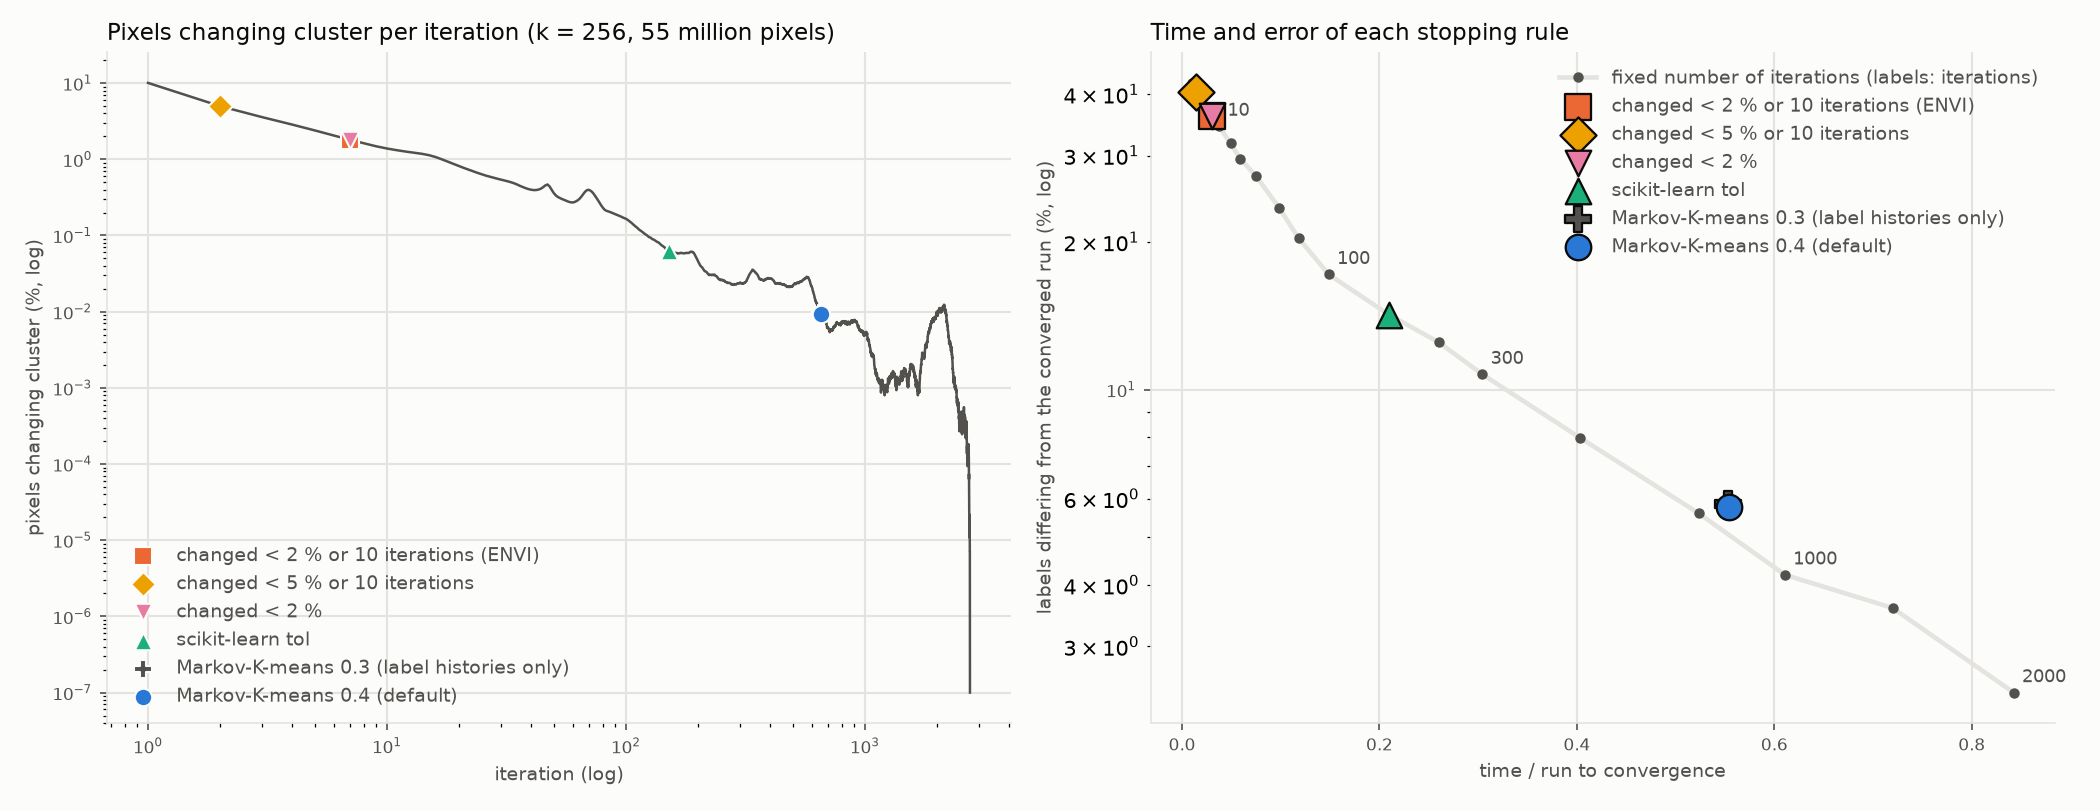
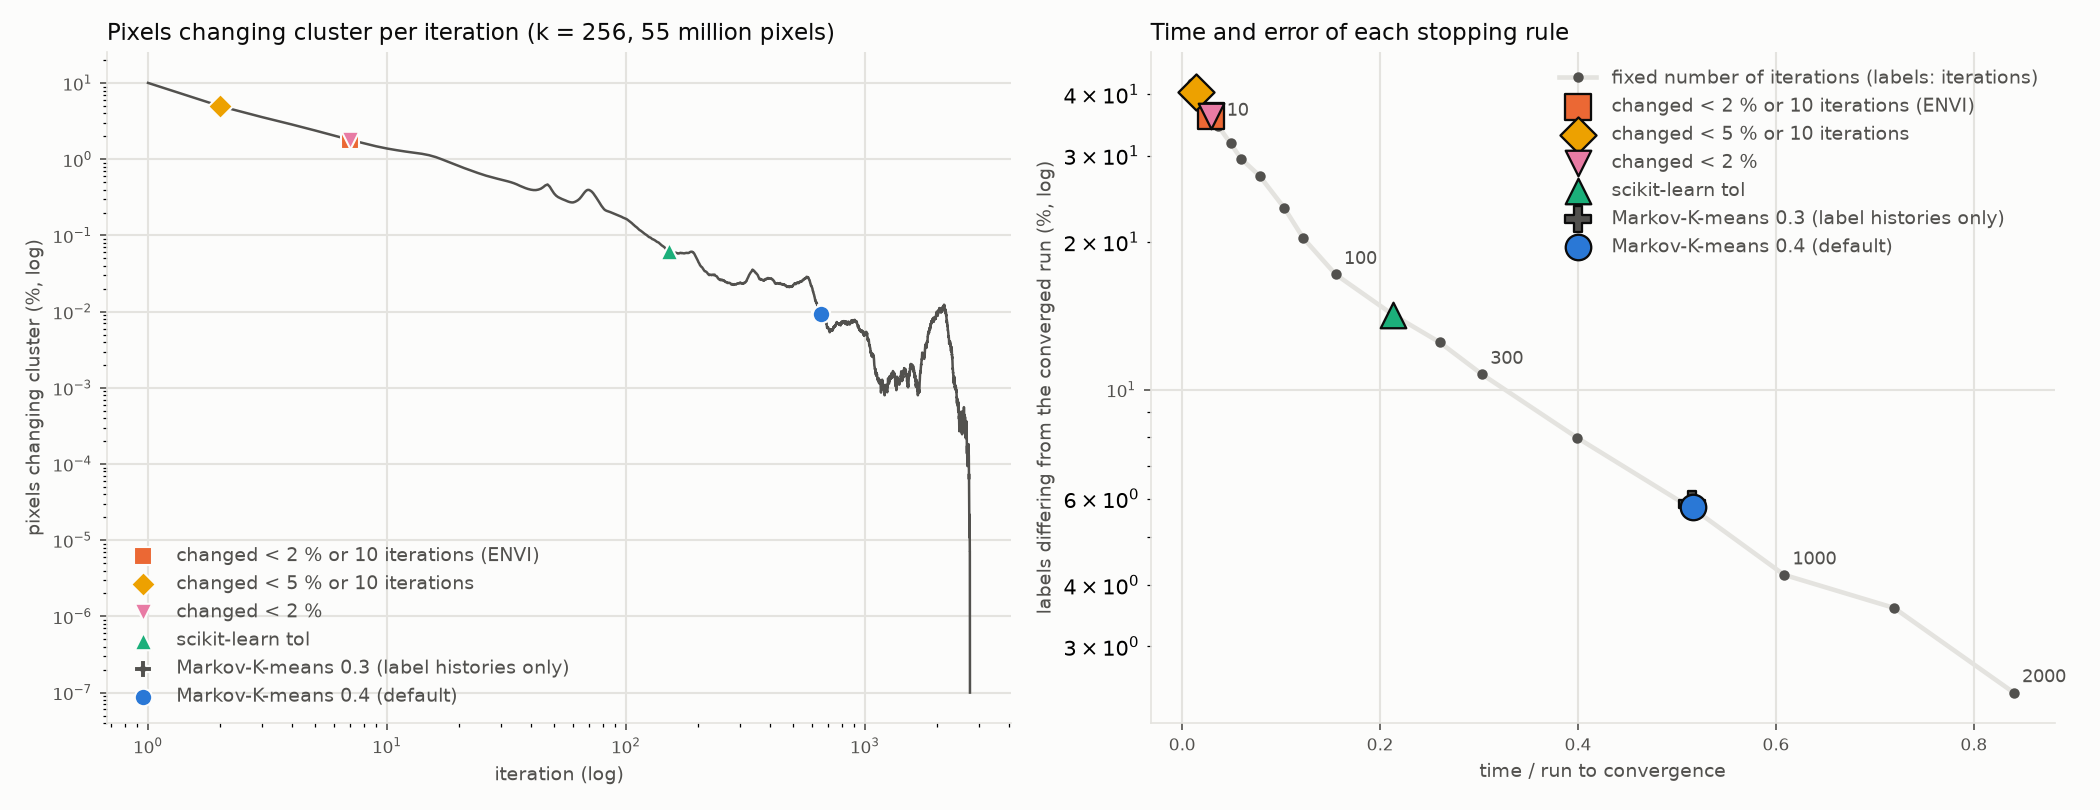
Results 9.1 with the 0.4.1 wide-area rerun
Claude-Session: https://claude.ai/code/session_01VqevGQgbnZeRsrAZKVeMPy

diff --git a/docs/results.md b/docs/results.md
@@ -25,7 +25,7 @@
 | **비용·오차 동시 비교 (6.3절)** | 완성된 절차끼리 시간과 오류를 함께 비교하면, 10개 사례 모두에서 markov-kmeans 0.2.0보다 싸면서 정확한 절차가 없다. 표류 체제에서는 효율적인 정지 지점을 일관되게 고른다(사후 최적 정지 대비 시간 +0–5%, 최대 오류 0.62%). 진동 체제에서는 편입이 비용–오류 곡선 자체를 낮춰, 어떤 "멈춤 + 유지" 절차도 못 내는 결과를 낸다. |
 | **목표 오차별 시간 (6.4절)** | 각 절차의 설정을 바꿔 가며 같은 오류에 드는 시간을 비교하면, 상수 스텝에서는 markov-kmeans가 모든 목표에서 가장 빠르다(오류 ≤ 0.2%에 시간 46%, 다음은 63%). 라벨을 그대로 두는 절차가 끝까지 돌려도 못 내는 오류(≤ 0.1%)도 편입으로만 얻는다. 정확 Lloyd에서는 적응형 규칙들이 거의 같은 곡선 위에 있고, 설정을 조정한 Pérez-Ortega·sklearn tol이 markov-kmeans보다 3–6%p 빠르다. |
 | **실제 위성영상 (9절)** | Sentinel-2 장면 12개(장면당 3천만 화소)에서 수렴까지 105–460회가 걸려 꼬리가 실재한다. 원격탐사 기본값(변경 < 2% 또는 10회)은 수렴 결과와 20%가량 다른 분할에서 멈추고, scikit-learn 기본값은 늦게 재편되는 장면에서 34%가 틀렸다. Markov-K-means는 조정 없이 12개 장면 모두 오차 0.5% 이하에서 멈췄다(0.3: 중앙값 0.20%). 0.4는 같은 정지에서 중앙값 0.07%(최대 0.35%, 추가 시간 0.6%)다. 0.4.1에서 시간은 끝까지 돌린 것의 중앙값 57%다. 미결정 목록과 soft 소속도는 이 데이터(표류 체제)에서 쓸모가 없었다. |
-| **넓은 지역 · 큰 k (9.1절)** | 한반도 남부 20개 타일(5,533만 화소, 60 m)을 k = 256으로 군집하면 수렴까지 2,752회가 걸린다. 모든 정지 규칙이 고정 반복 수의 시간–오차 곡선 위에 놓이고, Markov-K-means(시간 55%, 라벨 오차 5.8%, SSE 초과 0.012%)도 같은 시간의 고정 반복보다 낫지 않다. 다만 조정 없이 적합도로는 사실상 수렴한 지점을 찾는다. scikit-learn MiniBatchKMeans 기본값은 SSE가 24% 컸다. |
+| **넓은 지역 · 큰 k (9.1절)** | 한반도 남부 20개 타일(5,533만 화소, 60 m)을 k = 256으로 군집하면 수렴까지 2,752회가 걸린다. 모든 정지 규칙이 고정 반복 수의 시간–오차 곡선 위에 놓이고, Markov-K-means(시간 52%, 라벨 오차 5.8%, SSE 초과 0.012%)도 같은 시간의 고정 반복보다 낫지 않다. 다만 조정 없이 적합도로는 사실상 수렴한 지점을 찾는다. scikit-learn MiniBatchKMeans 기본값은 SSE가 24% 컸다. |
 | **의사 대표점 (10절, 0.4)** | 대표점마다 최근 경로를 AR(1) 연쇄로 맞춘 장기 평균(의사 대표점)으로 재배정하면, 아직 움직이지 않았지만 곧 경계를 넘을 점을 미리 옮긴다. 같은 정지 시점에서 오차가 합성 데이터 10개 사례 모두에서 3–22%, Sentinel-2 12개 장면 모두에서 29–92% 줄었다. 추가 비용은 끝까지 돌린 시간의 0–1.6%다. SSE가 늘면 채택하지 않으므로 0.3보다 나빠지지 않는다. |
 | **응용 (7–8절)** | **색 양자화**(사진 100장, 장당 2–21백만 화소)에서는 화질이 수렴 반복의 32–39% 시점에 이미 0.01 dB 안으로 들어와 긴 꼬리의 가치가 거의 없다. 자동 규칙은 손실 0.002 dB 이하로 안전하지만 보수적이고(시간 79–84%), 표본 학습이 가장 싸다. **EMA VQ 코드북**(MobileNetV2 잠재벡터, 픽셀 패치)에서는 벡터의 5–26%가 계속 코드를 바꾸고 코드가 크게 흔들려 전제가 깨진다. 자동 규칙은 개입하지 않았고, soft 토큰은 거리 기반이 이력 기반 π보다 약 두 배 낫다. |
 
@@ -1162,8 +1162,8 @@ VQ-VAE·VQGAN 같은 이미지 토크나이저는 인코더 출력 벡터를 가
 | 변경 < 5 % 또는 10회 | 2 | 1% | 40.46% | 4.319% |
 | 변경 < 2 % (상한 없음) | 7 | 3% | 36.09% | 2.153% |
 | scikit-learn tol (기본값) | 151 | 21% | 14.20% | 0.124% |
-| Markov-K-means 0.3 (라벨 이력 정리만) | 652 | 55% | 5.86% | 0.012% |
-| Markov-K-means 0.4 (기본값) | 652 | 55% | 5.76% | 0.012% |
+| Markov-K-means 0.3 (라벨 이력 정리만) | 652 | 52% | 5.86% | 0.012% |
+| Markov-K-means 0.4 (기본값) | 652 | 52% | 5.76% | 0.012% |
 | 끝까지 (기준) | 2,752 | 100% | 0.00% | 0.000% |
 | 고정 300회 | 300 | 30% | 10.75% | – |
 | 고정 700회 | 700 | 52% | 5.60% | – |
@@ -1177,9 +1177,9 @@ VQ-VAE·VQGAN 같은 이미지 토크나이저는 인코더 출력 벡터를 가
 | 항목 | 값 |
 |---|---|
 | 화소 수 | 55.3백만 (8,335 × 6,668 격자의 99.6%) |
-| 수렴 | 2,752회, 75분 |
+| 수렴 | 2,752회, 84분 |
 | Markov 정지 | 652회 (few_unstable) |
-| 감시기 비용 | 끝까지 돌린 시간의 4.3% |
+| 감시기 비용 | 끝까지 돌린 시간의 0.6% |
 | 의사 대표점 단계 | 0.1% (채택: 예, ρ 중앙값 0.95) |
 | 옮긴 화소 | 0.14%, 그중 맞은 비율 83% |
 | 고친 / 망친 화소 | 63,684 / 8,414 |
@@ -1218,13 +1218,13 @@ VQ-VAE·VQGAN 같은 이미지 토크나이저는 인코더 출력 벡터를 가
 </details>
 
 **결과**
-* **꼬리가 훨씬 길다.** 수렴까지 2,752회, 75분(4코어)이 걸렸다. 반복당 바뀌는 화소는 100여 회 만에 0.1%, 650회 무렵 0.01% 아래로 떨어지지만, 그 뒤로도 2천 회 넘게 이어지며 라벨 변경이 440만 번(화소 수의 8%) 더 일어난다. 2,000회 근처에서는 군집 재편으로 변화가 다시 솟는다(그림 왼쪽).
+* **꼬리가 훨씬 길다.** 수렴까지 2,752회, 84분(4코어, 0.4.1)이 걸렸다. 같은 계산을 0.4.0 코드로 돌렸을 때는 75분이었다. 같은 상태에서 두 배정 커널을 직접 비교하면 차이가 없으므로, 이 차이는 실행 환경의 변동이다. 라벨과 정지 시점은 두 실행에서 모두 같다. 반복당 바뀌는 화소는 100여 회 만에 0.1%, 650회 무렵 0.01% 아래로 떨어지지만, 그 뒤로도 2천 회 넘게 이어지며 라벨 변경이 440만 번(화소 수의 8%) 더 일어난다. 2,000회 근처에서는 군집 재편으로 변화가 다시 솟는다(그림 왼쪽).
 * **모든 규칙이 "고정 반복 수" 곡선 위에 놓인다.** 이 실행에서는 어느 규칙도 같은 시간에 고정 반복보다 낮은 오차를 내지 못했다(그림 오른쪽).
   * 원격탐사 기본값: 7회, 시간 3%, 오차 36%
   * scikit-learn tol: 151회, 21%, 14%
-  * Markov-K-means: 652회, 55%, 5.8%
+  * Markov-K-means: 652회, 52%, 5.8%
   * 고정 700회는 52%에 5.6%로, Markov-K-means의 자동 정지와 거의 같은 자리다. Markov-K-means가 해 준 것은 장면에 맞는 반복 수를 미리 모른 채 이 자리를 찾은 것이고, 같은 시간에 더 낮은 오차를 낸 것은 아니다.
-  * 감시기 비용은 4.3%다.
+  * 감시기 비용은 0.6%다(0.4.0에서는 4.3%).
 * **라벨은 많이 다르지만 적합도는 거의 같다.** Markov-K-means에서 멈추면 화소의 5.8%가 수렴 지도와 다르지만, SSE는 0.012%만 크다. k = 256에서는 스펙트럼이 거의 같은 군집이 많아, 그런 군집끼리 화소를 주고받는 변화가 수천 회 이어진다. 라벨 하나하나가 수렴 결과와 같아야 하는 용도가 아니라면, 이 차이는 지도 품질에 거의 영향이 없다. scikit-learn tol은 SSE 0.12%, 원격탐사 기본값은 2.2%가 크다.
 * **의사 대표점의 효과가 작다(5.86% → 5.76%).** 옮긴 화소 0.14% 중 83%가 맞았다(고친 화소 63,684개, 망친 화소 8,414개). 그러나 남은 변화는 수천 회에 걸친 느린 이동이라, 상한(ρ = 0.95)에 걸린 외삽이 닿지 못한다. 틀린 화소 가운데 미결정 목록에 든 것은 1% 미만이다.
 * **틀린 라벨의 위치(그림 13):** 원격탐사 기본값과 scikit-learn tol은 육지 거의 전역에서 틀린 라벨이 많다. Markov-K-means에서는 오류 수준이 타일 단위로 뚜렷이 다르다. 남동부의 몇 개 타일은 오류가 적고, 나머지 육지에는 고르게 남는다. 바다는 일찍 정착한다.
